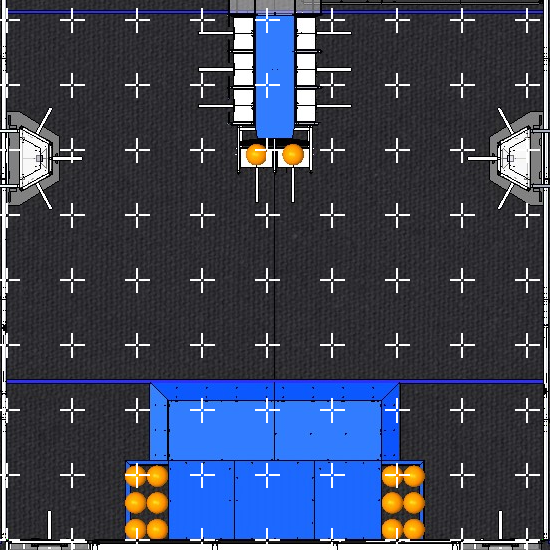
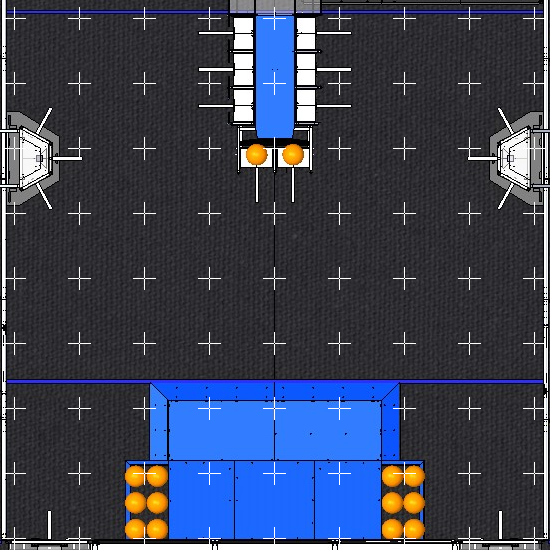
works even better with bigger coefficients

diff --git a/Postseason/IWIC/src/main/java/frc/controls/CubicSplineFollower.java b/Postseason/IWIC/src/main/java/frc/controls/CubicSplineFollower.java
@@ -29,12 +29,12 @@ public class CubicSplineFollower {
     private Boolean isFinished = false;
 
     private static double kRadiusPath = 0.4;
-    private static final double kRadiusCritical = 0.7;
+    private static final double kRadiusCritical = 0.15;
     private static final double kRadiusFinal = 0.05;
     private static final double kEpsilonPath = 5.0;
     private static final double kEpsilonFinal = 1.0;
-    private static final double kD = 0.5;
-    private static final double kFF = 1.0/ROTATION_RATE*4.5;
+    private static final double kD = 1.0;
+    private static final double kFF = 1.0/ROTATION_RATE*12.0;
 
     private Pose pose;
 
@@ -53,9 +53,9 @@ public class CubicSplineFollower {
         feedForwardSpeed = curWaypoint.kSpeed;
         if (index == waypoints.size() - 1) { 
             // Last waypoint, important to be at exactly
-            if(distanceFromWaypoint < feedForwardSpeed) 
+            if(distanceFromWaypoint < Math.abs(feedForwardSpeed)) 
                 // speed reduces as distance gets smaller
-                 feedForwardSpeed = distanceFromWaypoint;
+                 feedForwardSpeed = distanceFromWaypoint*feedForwardSpeed;
             if (atWaypoint(kRadiusFinal) || isFinished){
                 feedForwardSpeed = 0.0;
                 if(atHeading(kEpsilonFinal)){ 
@@ -96,7 +96,7 @@ public class CubicSplineFollower {
 
         generateSpline(relativeAdjacDist, relativeOpposDist, relativeGoalDeriv);
 
-        double deltaX = ((MAX_SPEED * feedForwardSpeed)*1.0 + pose.velocity*1.0) / SAMPLE_RATE;
+        double deltaX = ((MAX_SPEED * feedForwardSpeed)*0.0 + pose.velocity*2.0) / SAMPLE_RATE;
         double y2 = (a * deltaX * deltaX * deltaX) + (b * deltaX * deltaX);
         double dx2 = (3.0 * a * deltaX * deltaX) + (2.0 * b * deltaX);
         double relativeFeedForwardAngle = Math.atan(dx2);
@@ -104,6 +104,9 @@ public class CubicSplineFollower {
         double rotationSpeedFF = -Math.toDegrees(relativeFeedForwardAngle)%360.0*kFF;
         double rotationSpeedD = -pose.angularVelocity/360.0*kD;
         double rotationSpeed = rotationSpeedFF + rotationSpeedD;
+
+        System.out.println(relativeAdjacDist);
+
         return DrivetrainControls.curvatureDrive(feedForwardSpeed, rotationSpeed, true);
     }
 

diff --git a/Postseason/IWIC/src/main/java/frc/modeling/Animation.java b/Postseason/IWIC/src/main/java/frc/modeling/Animation.java
@@ -59,12 +59,28 @@ public class Animation extends JPanel implements Runnable
 		nav = new CubicSplineFollower();
 
 		model.setPosition(0.0, 1.0, 0.0);
-		nav.addWaypoint(new Waypoint(0.3, 4.0, 40.0, 0.7));
-		nav.addWaypoint(new Waypoint(2.0, 5.7, 40.0, 0.7));
-		nav.addWaypoint(new Waypoint(2.5, 7.5, 90.0, 0.7));
+		nav.addWaypoint(new Waypoint(0.3, 4.0, 40.0, 1.0));
+		// nav.addWaypoint(new Waypoint(2.0, 5.7, 220.0, -0.7));
+		nav.addWaypoint(new Waypoint(2.5, 7.5, 0.0, 1.0));
 	
 		// model.setPosition(0.0, 1.0, 0.0);
-		// nav.addWaypoint(new Waypoint(0.3, 2.0, -10.0, 0.7));
+		// nav.addWaypoint(new Waypoint(0.3, 2.0, -10.0, 1.0));
+
+		// model.setPosition(1.2, 0.7, 0.0);
+		// nav.addWaypoint(new Waypoint(3.3, 5.0, 30.0, 1.0));
+		// nav.addWaypoint(new Waypoint(3.4, 0.5, 0.0, -1.0));
+
+		// model.setPosition(1.2, 0.7, 0.0);
+		// nav.addWaypoint(new Waypoint(1.2, 6.6, -10.0, 1.0));
+		// nav.addWaypoint(new Waypoint(3.5, 0.5, -10.0, -1.0));
+		// nav.addWaypoint(new Waypoint(1.2, 7.2, -20.0, 1.0));
+
+
+
+
+		// nav.addWaypoint(new Waypoint(3.3, 5.0, 0.0, 1.0));
+
+
 
 		sim = new Thread ( this );	// Create and start the thread
 		sim.start();
@@ -79,8 +95,9 @@ public class Animation extends JPanel implements Runnable
 		time += simTime;
 		
 		Tuple output = nav.updatePursuit(model.center);
-		double leftVoltage = output.left*12.0;
-		double rightVoltage = output.right*12.0;
+		Tuple limitedOut = model.limitAcceleration(output);
+		double leftVoltage = limitedOut.left*12.0;
+		double rightVoltage = limitedOut.right*12.0;
 
 		//System.out.println("Left Voltage: " + leftVoltage + ", Right Voltage: " + rightVoltage);
 
@@ -107,7 +124,7 @@ public class Animation extends JPanel implements Runnable
 		xCoord = x + (int) Math.round(nav.getCurrentWaypoint().x * scale);
 		yCoord = y - (int) Math.round(nav.getCurrentWaypoint().y * scale);
 		offScreen.setColor(Color.yellow);
-		offScreen.drawOval(xCoord, yCoord, 6, 6);
+		offScreen.drawOval(xCoord-3, yCoord-3, 6, 6);
 
 		// Draw trajectory
 		for(Tuple point : trajectory){

diff --git a/Postseason/IWIC/src/main/java/frc/controls/DrivetrainControls.java b/Postseason/IWIC/src/main/java/frc/controls/DrivetrainControls.java
@@ -11,7 +11,7 @@ public class DrivetrainControls {
 	static double error = 0.0;
 	static double lastHeading = 0.0;
 	static final double ROTATION_kP = 10.0;
-	static final double ROTATION_kD = 5.0;
+	static final double ROTATION_kD = 100.0;
 
 	public static double turnToAngle(double goal, double heading) {
 		
@@ -31,7 +31,7 @@ public class DrivetrainControls {
 		}
 
 		double pVal = (error / -180 * ROTATION_kP); //Just some PD
-		double dVal = - ((heading - lastHeading) * ROTATION_kD / 360.0); //we care about rotation speed, not change in error cuz the goal angle is likely changing
+		double dVal = -((heading - lastHeading) * ROTATION_kD / 180.0); //we care about rotation speed, not change in error cuz the goal angle is likely changing
 		double output = pVal + dVal;
 		System.out.print("Turn to Angle- P: " + pVal + ", D: " + dVal);
 		lastHeading = heading;
